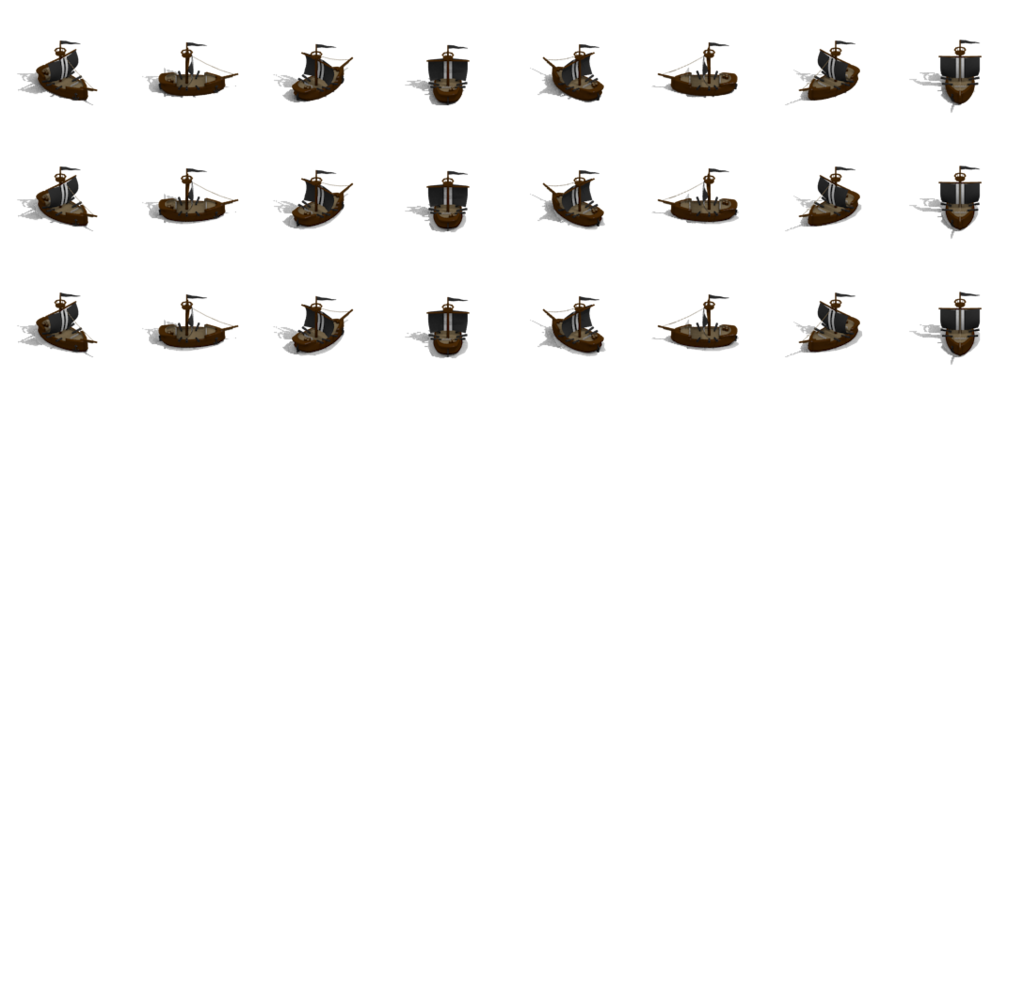
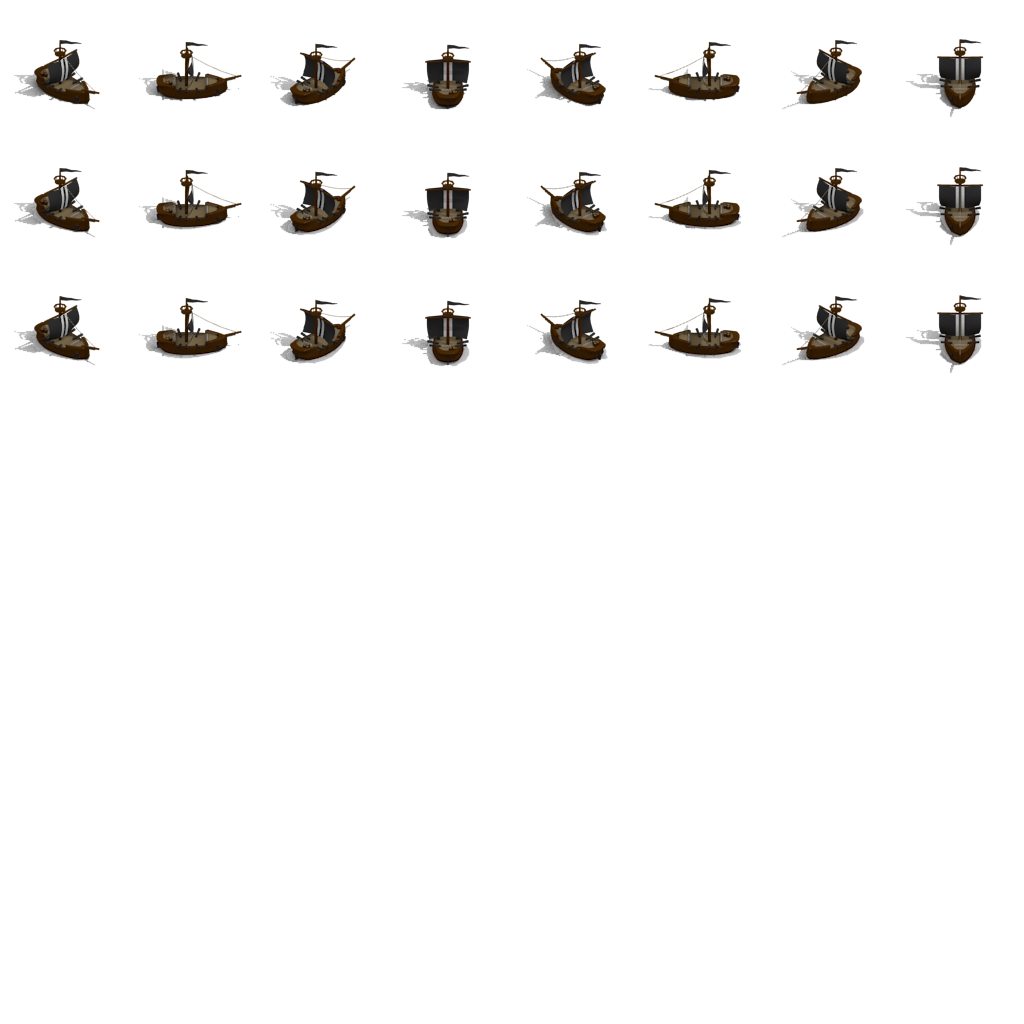
add layers to the map and setup tilset offset

diff --git a/data/levels/boat_01.tsx b/data/levels/boat_01.tsx
@@ -1,4 +1,24 @@
 <?xml version="1.0" encoding="UTF-8"?>
-<tileset name="boat_01" tilewidth="128" tileheight="128" tilecount="56" columns="8">
- <image source="../img/original/t_boat_01.png" width="1024" height="1008"/>
+<tileset name="boat_01" tilewidth="128" tileheight="128" tilecount="64" columns="8">
+ <tileoffset x="-14" y="11"/>
+ <grid orientation="orthogonal" width="8" height="8"/>
+ <image source="../img/original/t_boat_01.png" width="1024" height="1024"/>
+ <tile id="8">
+  <animation>
+   <frame tileid="8" duration="100"/>
+   <frame tileid="16" duration="100"/>
+  </animation>
+ </tile>
+ <tile id="9">
+  <animation>
+   <frame tileid="9" duration="100"/>
+   <frame tileid="17" duration="100"/>
+  </animation>
+ </tile>
+ <tile id="10">
+  <animation>
+   <frame tileid="10" duration="100"/>
+   <frame tileid="18" duration="100"/>
+  </animation>
+ </tile>
 </tileset>

diff --git a/data/levels/Ground_01.tsx b/data/levels/Ground_01.tsx
@@ -1,0 +1,6 @@
+<?xml version="1.0" encoding="UTF-8"?>
+<tileset name="Ground_01" tilewidth="128" tileheight="128" tilecount="64" columns="8">
+ <tileoffset x="-14" y="11"/>
+ <grid orientation="orthogonal" width="8" height="1"/>
+ <image source="../img/original/t_ground_01.png" width="1024" height="1024"/>
+</tileset>
